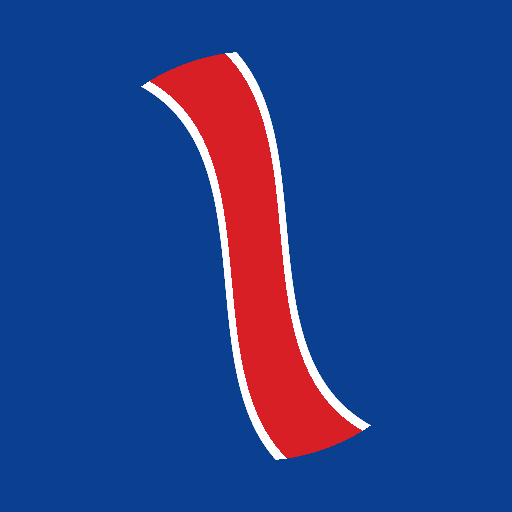
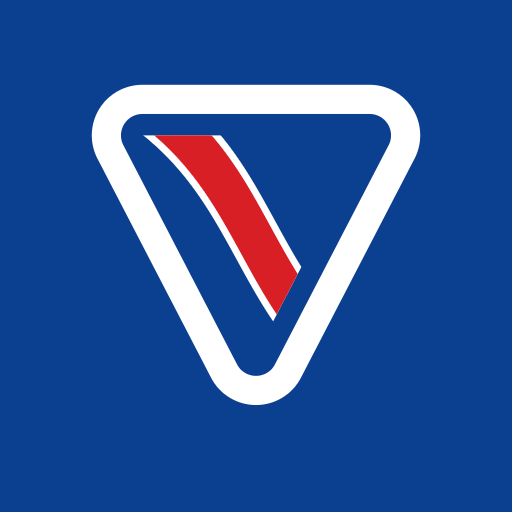
ヘルプボタンを追加

Changed region(s): [[0.1562, 0.0938, 0.8438, 0.9062]]

diff --git a/index.html b/index.html
@@ -89,6 +89,54 @@
     </div>
   </aside>
 </div>
+<!-- 使い方。地図左上の「?」で開く。閉じるのは × か暗い部分を押す -->
+<div id="help" hidden>
+  <div class="help-box" role="dialog" aria-modal="true" aria-labelledby="helpTitle">
+    <div class="help-head">
+      <h2 id="helpTitle">使い方</h2>
+      <button type="button" class="help-close" data-help-close="1" aria-label="閉じる">×</button>
+    </div>
+    <div class="help-body">
+      <h3>走った区間を記録する</h3>
+      <ol>
+        <li>地図を拡大すると交差点の印（●◆）が出ます。さらに拡大すると名前も出ます</li>
+        <li>始めの交差点を押し、ポップアップの「ここから」を押します。国道が複数通る交差点では路線ごとにボタンが出ます</li>
+        <li>終わりの交差点を押し、「ここまで」を押します。経路を計算して赤くなります</li>
+      </ol>
+      <p>交差点でない所は道の線そのものを押しても選べます（その場所の緯度経度で記録されます）。
+        路線の端から端まで走ったのに、うまく選べないときは、路線一覧の「全線走破」ボタンで路線ごと記録できます。</p>
+      <h3>記録を見る・直す</h3>
+      <ul>
+        <li>「路線」タブで路線を押すと、その路線だけ濃くなり橙で縁取られます。もう一度押すと戻ります</li>
+        <li>「走破記録」タブに記録が並びます。行を押すとその区間を縁取り、「編集」で日付とメモ、「削除」で消せます</li>
+        <li>下のパネルは、つまみを押すと半分に開き、上に引くと大きくなります。もう一度押すと畳まれます</li>
+      </ul>
+      <h3>地図の見方</h3>
+      <ul>
+        <li><span class="sw" style="background:var(--done)"></span> 走破済み　<span class="sw" style="background:var(--todo)"></span> 未走破</li>
+        <li><b style="color:#0b3f8f">●</b> 信号交差点　<b style="color:#0f7b4f">◆</b> 国道どうしの交点　<b style="color:#111827">◆</b> 路線の端</li>
+        <li><b style="color:var(--done)">★</b> 道の駅（「≡」→「道の駅を出す」）。星を押して「行った」で訪問を記録します</li>
+        <li>交差点名の横の <b style="color:#0b3f8f">R17/104.6</b> は、国道17号の起点から 104.6 km の意味です</li>
+      </ul>
+      <h3>設定（右上の「≡」）</h3>
+      <ul>
+        <li>背景の地図はネットがあるときだけ出ます。圏外では「背景なし」にしてください</li>
+        <li>「未走破の国道も描く」を外すと、走った道だけが残ります</li>
+      </ul>
+      <h3>記録の保存と持ち出し</h3>
+      <ul>
+        <li>記録はこの端末のブラウザの中だけに保存されます。どこにも送られません。他の人が同じ URL を開いても、その人の端末に別の記録ができます</li>
+        <li>ブラウザのデータを消すと記録も消えます。ときどき「≡」→「routes.csv を書き出す」で控えを取ってください。
+          書き出した CSV は PC 版でそのまま読めます</li>
+        <li>「CSV を読み込む」は、いまの記録を CSV の内容で置き換えます</li>
+      </ul>
+      <h3>圏外で使う</h3>
+      <p>一度開けば、画面と全国の線は端末に残ります。「≡」→「全路線を端末に保存」を押しておくと、
+        どの路線でも圏外で記録できます（約 25MB）。背景の地図は残りません。</p>
+      <p class="help-foot">版は題名の「v0.x」で分かります。更新があるとネット接続時に自動で新しくなります。</p>
+    </div>
+  </div>
+</div>
 <script src="vendor/leaflet.js"></script>
 <script src="js/version.js"></script>
 <script src="js/graph.js"></script>

diff --git a/app.css b/app.css
@@ -145,6 +145,24 @@ h1 { margin: 0; font-size: 15px; font-weight: 700; letter-spacing: .08em; }
 .legend { padding: 10px 20px 12px; border-top: 1px solid var(--rule); font-size: 10.5px; color: var(--muted); line-height: 1.8; }
 .legend i { display: inline-block; width: 18px; height: 3px; margin-right: 5px; vertical-align: 2px; }
 
+/* 使い方 */
+.leaflet-bar a.help-btn { font-weight: 700; font-size: 17px; }
+#help { position: fixed; inset: 0; z-index: 1200; background: rgba(22, 32, 44, .55); display: flex;
+        align-items: center; justify-content: center; padding: 16px; }
+#help[hidden] { display: none; }
+.help-box { background: #fff; border-radius: 12px; width: 100%; max-width: 520px; max-height: 100%;
+            display: flex; flex-direction: column; box-shadow: 0 10px 40px rgba(0, 0, 0, .3); }
+.help-head { display: flex; align-items: center; padding: 12px 18px; border-bottom: 1px solid var(--rule); }
+.help-head h2 { flex: 1; margin: 0; font-size: 15px; letter-spacing: .06em; }
+.help-close { font: inherit; font-size: 20px; line-height: 1; width: 36px; height: 36px; cursor: pointer;
+              border: 1px solid var(--rule); border-radius: 8px; background: #fff; color: var(--muted); }
+.help-body { overflow-y: auto; padding: 6px 18px 18px; font-size: 12.5px; line-height: 1.75; -webkit-overflow-scrolling: touch; }
+.help-body h3 { margin: 14px 0 4px; font-size: 13px; color: var(--sign-blue); }
+.help-body p, .help-body ul, .help-body ol { margin: 4px 0; }
+.help-body ul, .help-body ol { padding-left: 1.4em; }
+.help-body .sw { display: inline-block; width: 18px; height: 3px; margin-right: 4px; vertical-align: 3px; }
+.help-body .help-foot { margin-top: 14px; color: var(--muted); font-size: 11px; }
+
 /* 起動時のエラー */
 #fatal {
   position: fixed; left: 0; right: 0; bottom: 0; z-index: 9999; background: #d81f26; color: #fff;

diff --git a/js/app.js b/js/app.js
@@ -105,6 +105,31 @@ const map = L.map("map", { preferCanvas: true }).setView([37.0, 137.5], 6);
 map.attributionControl.setPrefix(false).addAttribution(OSM_CREDIT);
 let baseLayer = null;
 
+// 使い方。＋−の下に「?」を置き、#help を出す
+const HelpControl = L.Control.extend({
+  onAdd: function () {
+    const bar = L.DomUtil.create("div", "leaflet-bar");
+    const a = L.DomUtil.create("a", "help-btn", bar);
+    a.href = "#";
+    a.textContent = "?";
+    a.title = "使い方";
+    a.setAttribute("role", "button");
+    a.setAttribute("aria-label", "使い方");
+    L.DomEvent.on(a, "click", (e) => { L.DomEvent.preventDefault(e); L.DomEvent.stopPropagation(e); showHelp(true); });
+    L.DomEvent.disableClickPropagation(bar);
+    return bar;
+  }
+});
+new HelpControl({ position: "topleft" }).addTo(map);
+function showHelp(open) {
+  $("help").hidden = !open;
+  if (open) $("help").querySelector(".help-body").scrollTop = 0;
+}
+$("help").addEventListener("click", (e) => {
+  if (e.target === $("help") || e.target.closest("[data-help-close]")) showHelp(false);
+});
+document.addEventListener("keydown", (e) => { if (e.key === "Escape" && !$("help").hidden) showHelp(false); });
+
 function setBasemap(key) {
   if (baseLayer) { map.removeLayer(baseLayer); baseLayer = null; }
   const spec = BASEMAPS[key] || BASEMAPS.none;

diff --git a/js/version.js b/js/version.js
@@ -2,4 +2,4 @@
 // これを使う。画面・JS・CSS・data/ のどれかを更新したら上げること。上げないと端末に
 // 古いものが配られ続ける。sw.js は importScripts、index.html は <script> で読む
 "use strict";
-const APP_VERSION = "0.4";
+const APP_VERSION = "0.5";

diff --git a/tools/make_icons.py b/tools/make_icons.py
@@ -4,7 +4,9 @@
 
     python tools/make_icons.py
 
-青い丸に赤い「走破済みの道」を一本。192 / 512 / 512(maskable) を icons/ に置く。
+国道標識の形（丸みを帯びた逆三角、白い縁、青い地）に、赤い「走破済みの道」を一本。
+192 / 512 / 512(maskable) を icons/ に置く。maskable は青で端まで塗り、
+標識を中央 80% の安全域に収める（OS が丸や角丸に切り抜く）。
 """
 import math
 import os
@@ -36,35 +38,78 @@ def png_bytes(size, pixels):
     return sig + chunk(b"IHDR", ihdr) + chunk(b"IDAT", zlib.compress(bytes(raw), 9)) + chunk(b"IEND", b"")
 
 
+def poly_sdf(p, verts):
+    """凸多角形（頂点は時計回り）への符号付き距離。中は負、外は正"""
+    x, y = p
+    inside = True
+    dmax = -1e9
+    dmin = 1e9
+    n = len(verts)
+    for i in range(n):
+        ax, ay = verts[i]
+        bx, by = verts[(i + 1) % n]
+        ex, ey = bx - ax, by - ay
+        L = math.hypot(ex, ey)
+        # 辺の直線への符号付き距離（時計回りなら右側＝内側が負）
+        s = ((x - ax) * ey - (y - ay) * ex) / L
+        if s > 0:
+            inside = False
+        dmax = max(dmax, s)
+        # 線分への距離
+        t = max(0.0, min(1.0, ((x - ax) * ex + (y - ay) * ey) / (L * L)))
+        dmin = min(dmin, math.hypot(x - (ax + t * ex), y - (ay + t * ey)))
+    return dmax if inside else dmin
+
+
+def cov(d):
+    """符号付き距離 d（負が中）を 0〜1 の被覆率に。1px でなめらかにする"""
+    return max(0.0, min(1.0, 0.5 - d))
+
+
+def mix(a, b, t):
+    return tuple(int(round(a[i] * (1 - t) + b[i] * t)) for i in range(len(a)))
+
+
 def draw(size, maskable):
-    px = []
     c = size / 2
-    # maskable は端まで塗る（OS が丸く切り抜く）。普通のは少し内側に丸を置く
-    radius = size * (0.5 if maskable else 0.46)
-    road_w = size * 0.17
+    # 標識の大きさ。maskable は安全域（中央 80%）に収める
+    span = size * (0.76 if maskable else 0.92)
+    r_corner = span * 0.13                   # 角の丸み
+    rim = span * 0.075                       # 白い縁の太さ
+    # 逆三角（上辺が水平、頂点が下）。角を丸めるぶん内側に縮めた三角に r_corner を足す
+    top = c - span * 0.44
+    bottom = c + span * 0.50
+    half = span * 0.50
+    # 内側に r_corner だけ寄せた三角の頂点（時計回り）
+    tri = [(c - half + r_corner * 1.6, top + r_corner), (c + half - r_corner * 1.6, top + r_corner),
+           (c, bottom - r_corner * 1.9)]
+    road_w = span * 0.14
+    px = []
     for y in range(size):
         for x in range(size):
-            dx, dy = x + 0.5 - c, y + 0.5 - c
-            d = math.hypot(dx, dy)
+            p = (x + 0.5, y + 0.5)
+            d = poly_sdf(p, tri) - r_corner          # 標識の外形（白縁の外側）
             if maskable:
                 bg = BLUE + (255,)
             else:
-                a = max(0.0, min(1.0, radius - d + 0.5))
-                bg = BLUE + (int(255 * a),)
-            # 左下から右上へ、少しうねった赤い道
-            t = (dx + dy) / (2 * size)
-            off = math.sin((dx + dy) / size * math.pi * 1.1) * size * 0.17
+                bg = (0, 0, 0, 0)
+            a_out = cov(d)                            # 標識全体
+            a_in = cov(d + rim)                       # 白縁の内側（青）
+            col = mix(WHITE, BLUE, a_in)
+            # 赤い道: 左下から右上へ、少しうねる。縁から離した青い部分にだけ描く
+            dx, dy = p[0] - c, p[1] - c + span * 0.04
+            off = math.sin((dx + dy) / span * math.pi * 1.1) * span * 0.06
             dist = abs((dy - dx) / math.sqrt(2) - off)
-            inside = d < radius * (0.96 if not maskable else 0.8)
-            if inside and dist < road_w / 2:
-                edge = max(0.0, min(1.0, road_w / 2 - dist + 0.5))
-                col = RED
-                # 白い縁
-                if dist > road_w / 2 - size * 0.018:
-                    col = WHITE
-                px.append(tuple(int(col[i] * edge + bg[i] * (1 - edge)) for i in range(3)) + (bg[3],))
+            clip = cov(d + rim + span * 0.055)
+            a_road = cov(dist - road_w / 2) * clip
+            a_edge = cov(dist - road_w / 2 + span * 0.018) * clip
+            col = mix(col, WHITE, a_road)
+            col = mix(col, RED, a_edge)
+            if maskable:
+                px.append(mix(bg[:3], col, a_out) + (255,))
             else:
-                px.append(bg)
+                a = int(round(255 * a_out))
+                px.append(col + (a,))
     return png_bytes(size, px)
 
 

diff --git a/tools/smoke.py b/tools/smoke.py
@@ -135,6 +135,15 @@ def main():
                   "| 一覧:", rows, "行")
             ok = started and not fatal and rows > 400
 
+            # 3.4 使い方: 「?」で開き、× で閉じる
+            b.eval('document.querySelector(".help-btn").click(); 0')
+            opened = not b.eval('document.getElementById("help").hidden')
+            b.eval('document.querySelector("[data-help-close]").click(); 0')
+            closed = b.eval('document.getElementById("help").hidden')
+            print("使い方:", "開く" if opened else "開かない", "→", "閉じる" if closed else "閉じない",
+                  "| 見出し:", b.eval('document.querySelectorAll("#help h3").length'), "個")
+            ok = ok and opened and closed
+
             # 3.5 スマホ幅なので下パネルはシート。畳んだ状態で始まり、地図は画面いっぱい
             sheet = b.eval('(() => { const a = document.getElementById("app").clientHeight; '
                            'return { state: sheetState, app: a, map: map.getSize().y, '

diff --git a/docs/仕様.md b/docs/仕様.md
@@ -26,6 +26,11 @@
 | データ | 道路データの版と路線数、「全路線を端末に保存」 |
 | タブ | 路線（一覧と絞り込み）／走破記録（記録の一覧・編集・削除） |
 
+### 使い方
+
+地図左上の「?」で使い方（`index.html` の `#help`）を開く。記録のしかた、記録の見方、地図の
+印、設定、保存と持ち出し、圏外での使い方を載せる。× か暗い部分か Esc で閉じる。
+
 ### 地図
 
 - 未走破の線（青、細い）と走破済みの線（赤、太い）。一覧で路線を選ぶと、その路線だけ濃く出て橙の縁取りが付く
